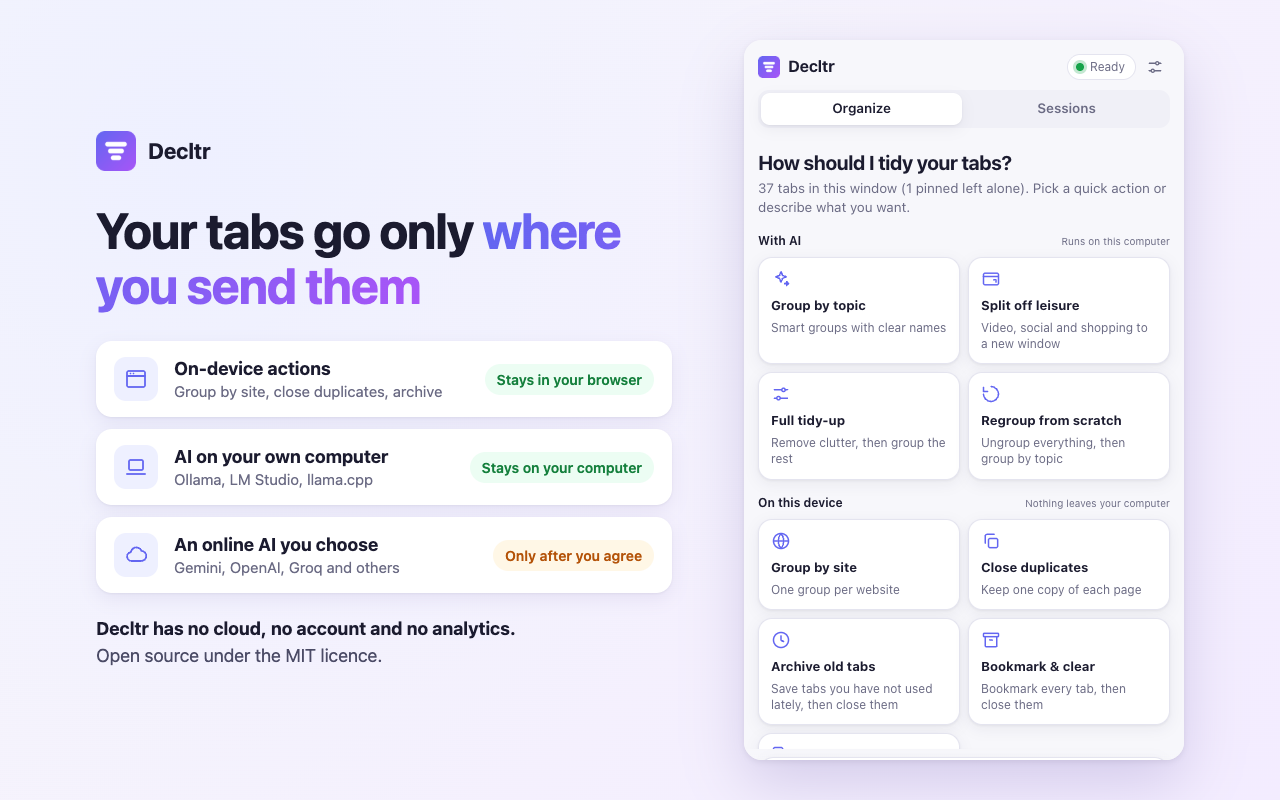
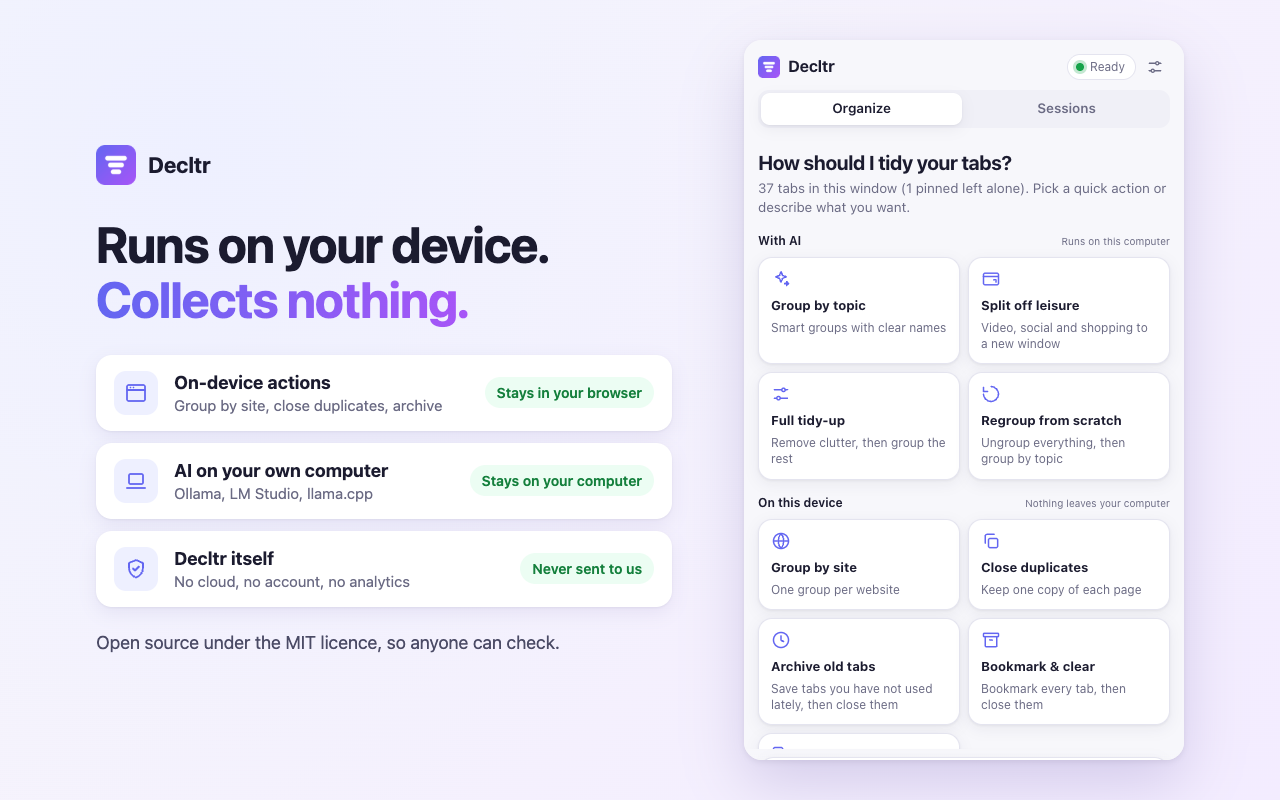
Branding: runs on your device, collects no data
- First screenshot: "Runs on your device. Collects nothing." The online-AI
  row is gone; in its place, Decltr itself: no cloud, no account, no
  analytics, never sent to us.
- Short description, tiles, README, store texts and privacy policy say that
  Decltr runs on your device and collects no data, and that with an online
  AI the user's own key sends tabs straight to their provider, never to us.
- BRAND.md: new taglines and claims, and a note to keep the stores' privacy
  answers as they are, since they cover what the extension sends to any
  provider.

Changed region(s): [[0.0938, 0.4375, 0.5312, 0.75], [0.0625, 0.1562, 0.5, 0.4062], [0.0625, 0.7812, 0.4375, 0.8438]]

diff --git a/dev/store/frame.html b/dev/store/frame.html
@@ -35,9 +35,7 @@
   .lane-text small { font-size: 15px; color: #6b6b84; }
   .pill { flex: none; font-size: 14px; font-weight: 600; padding: 7px 12px; border-radius: 999px; white-space: nowrap; }
   .pill.stay { color: #15803d; background: #ecfdf3; }
-  .pill.ask { color: #b45309; background: #fff7e6; }
   .foot { margin-top: 22px; font-size: 18px; color: #4b4b66; }
-  .foot b { color: #1b1b2f; }
 
   .promo { width: 440px; height: 280px; display: flex; flex-direction: column; justify-content: center; padding: 0 36px;
     background: linear-gradient(135deg, #6366f1, #a855f7); color: #fff; }
@@ -53,7 +51,8 @@
   .large .copy .brand { font-size: 44px; margin-bottom: 28px; }
   .large .copy .brand img { width: 72px; height: 72px; background: #fff; border-radius: 16px; padding: 8px; }
   .large h1 { color: #fff; font-size: 56px; margin-bottom: 18px; }
-  .large p { color: rgb(255 255 255 / 90%); font-size: 24px; }
+  .large p { color: rgb(255 255 255 / 90%); font-size: 24px; max-width: none; }
+  .large.social p { font-size: 22px; }
   .large .chips { margin-top: 26px; }
   .large .chips span { font-size: 17px; padding: 8px 14px; }
   .large .panel { height: 480px; margin-top: 80px; align-self: flex-start; }
@@ -69,7 +68,7 @@
   const ICONS = {
     browser: '<rect x="3" y="4" width="18" height="16" rx="2"/><path d="M3 9h18M6.5 6.5h.01M9.5 6.5h.01"/>',
     laptop: '<rect x="5" y="5" width="14" height="10" rx="1.5"/><path d="M3 19h18"/>',
-    cloud: '<path d="M7.5 18a4.5 4.5 0 01-.6-8.96 5.5 5.5 0 0110.6-1.1A4.5 4.5 0 0117 18z"/>',
+    shield: '<path d="M12 3l7 3v5c0 4.5-3 8.2-7 9.5-4-1.3-7-5-7-9.5V6z"/><path d="M9 11.5l2 2 4-4"/>',
   };
   const lane = (iconName, title, detail, where, kind) =>
     `<div class="lane"><span class="lane-icon">${svg(ICONS[iconName])}</span><div class="lane-text"><b>${title}</b><small>${detail}</small></div><span class="pill ${kind}">${where}</span></div>`;
@@ -79,13 +78,13 @@
 
   const shots = {
     1: {
-      title: 'Your tabs go only <span>where you send them</span>',
+      title: 'Runs on your device. <span>Collects nothing.</span>',
       body: `<div class="lanes">
           ${lane('browser', 'On-device actions', 'Group by site, close duplicates, archive', 'Stays in your browser', 'stay')}
           ${lane('laptop', 'AI on your own computer', 'Ollama, LM Studio, llama.cpp', 'Stays on your computer', 'stay')}
-          ${lane('cloud', 'An online AI you choose', 'Gemini, OpenAI, Groq and others', 'Only after you agree', 'ask')}
+          ${lane('shield', 'Decltr itself', 'No cloud, no account, no analytics', 'Never sent to us', 'stay')}
         </div>
-        <p class="foot"><b>Decltr has no cloud, no account and no analytics.</b><br>Open source under the MIT licence.</p>`,
+        <p class="foot">Open source under the MIT licence, so anyone can check.</p>`,
       panel: 'panel-privacy.png',
       cls: 'privacy',
     },
@@ -94,14 +93,14 @@
     4: { title: 'Your choice <span>of AI</span>', text: 'Ollama or LM Studio on your own computer, Google Gemini with your own key, or any OpenAI-compatible service. No Decltr account, and nothing in between.', panel: 'panel-ai.png' },
     5: { title: 'Built for <span>hundreds of tabs</span>', text: 'Archive tabs you have not used in weeks, open big sessions without loading every tab, and let AI sort huge windows in parts.', panel: 'panel-big.png' },
   };
-  const tagline = 'Open source, with no account and no Decltr cloud. With local AI, nothing leaves your computer.';
+  const tagline = 'Open source. Runs on your device and collects no data.<br>With local AI, nothing leaves your computer.';
 
   if (q.has('large') || q.has('social')) {
     document.body.innerHTML = `<div class="large${q.has('social') ? ' social' : ''}"><div class="copy">${brand}
       <h1>Tidy your tabs<br>in plain English</h1><p>${tagline}</p>${q.has('social') ? chips('Chrome and Edge', 'MIT licence', 'Ollama, Gemini and more') : ''}</div>
       ${panel('panel-plan.png')}</div>`;
   } else if (q.has('promo')) {
-    document.body.innerHTML = `<div class="promo">${brand}<p>Tidy your tabs<br>in plain English.</p>${chips('Open source', 'No account', 'Local AI')}</div>`;
+    document.body.innerHTML = `<div class="promo">${brand}<p>Tidy your tabs<br>in plain English.</p>${chips('Open source', 'Collects no data', 'Local AI')}</div>`;
   } else {
     const s = shots[Number(q.get('n') ?? 1)];
     document.body.innerHTML = `<div class="shot ${s.cls ?? ''}"><div class="copy">${brand}<h1>${s.title}</h1>${s.body ?? `<p>${s.text}</p>`}</div>

diff --git a/store/BRAND.md b/store/BRAND.md
@@ -6,48 +6,51 @@ Every claim here is true of the code in this repository, and the claims table sa
 
 ## Positioning
 
-Decltr tidies browser tabs from plain-English requests. It is independent and open source: there is no Decltr cloud, no account, no analytics and no ads, so none of your data reaches its developer. You choose the AI. A model on your own computer keeps everything on it. An online model with your own key receives tab titles and addresses, and only after you agree. Many features need no AI at all.
+Decltr tidies browser tabs from plain-English requests. It runs on your device and collects no data. It is independent and open source, with no Decltr cloud, no account, no analytics and no ads, so nothing you do in it ever reaches its developer. Every feature can run on your own computer, AI included: with a model on your computer, nothing leaves it. People who prefer an online AI use their own key, and their tabs go straight from the browser to that provider. That is between them and their provider, and Decltr is not in the middle.
 
 It is for people who keep many tabs open (for research, development, study or planning a trip) and care where their data goes, including people who already run local models with Ollama or LM Studio.
 
 ## Messages, in this order
 
 1. **What it does.** Tidy your tabs in plain English.
-2. **Why you can trust it.** Independent and open source: no Decltr cloud, no account, no analytics.
+2. **Why you can trust it.** Runs on your device and collects no data. Open source.
 3. **The privacy promise.** With local AI, nothing leaves your computer.
-4. **Choice.** Use the AI you choose, or none: many actions run on your device.
+4. **Your own AI, if you want one.** Use your own key, and your tabs go straight to your provider, never to us.
 
-Start with 1 so people know what Decltr is, and follow with 2 and 3 straight away. Wherever privacy is the topic (the first screenshot, the privacy part of a listing), lead with 3.
+Start with 1 so people know what Decltr is, and follow with 2 and 3 straight away. The online AI is an option, not part of the privacy story: mention it where the choice of AI is the topic (the fourth screenshot, the AI part of a listing).
 
 ## Taglines
 
 | Where | Line |
 | --- | --- |
 | Main line, everywhere | Tidy your tabs in plain English. |
-| Under the main line | Open source, with no account and no Decltr cloud. |
+| Under the main line | Open source. Runs on your device and collects no data. |
 | Privacy promise | With local AI, nothing leaves your computer. |
-| Privacy headline (first screenshot) | Your tabs go only where you send them. |
-| Choice | Use the AI you choose, or none. |
-| Chips and badges | Open source · No account · Local AI |
+| Privacy headline (first screenshot) | Runs on your device. Collects nothing. |
+| Online AI | Your own key, straight to your provider. |
+| Chips and badges | Open source · Collects no data · Local AI |
 
 ## Words
 
 - **Local AI**, or "a model on your own computer": Ollama with a downloaded model, or LM Studio, llama.cpp and similar at a `localhost` address.
 - **Online AI**, or "an online model": Google Gemini, OpenAI, OpenRouter, Groq and any other service on the internet.
 - **On-device**: the quick actions that use no AI. Use it only for those, as the panel does.
+- **Runs on your device**: about Decltr itself, whose code all runs in your browser. With an online AI the model runs at that provider, so never say the AI runs on your device unless it is local.
+- **Collects no data**: nothing reaches the developer. It does not mean that nothing ever leaves the computer, because with an online AI the browser sends tab details to the user's provider.
 - **Decltr cloud**: what Decltr does not have. Say "no Decltr cloud" rather than "no server", because the optional helper that runs on your own computer is called the Decltr server.
 
 ## Claims and their proof
 
 | Claim | Why it is true | Limits |
 | --- | --- | --- |
-| No Decltr cloud. The developer receives none of your data. | The extension contacts only the AI service you chose and, if you run it, the optional Decltr server on your own computer (127.0.0.1). It has no analytics or error-reporting code. `fetch` appears only in `lib/api.js` and `lib/share.js` (both for the local server) and in the AI backends. | Any new request, image, font or script from the internet breaks this. |
+| Collects no data. Nothing reaches the developer. | The extension contacts only the AI service the user chose and, if they run it, the optional Decltr server on their own computer (127.0.0.1). It has no analytics or error-reporting code. `fetch` appears only in `lib/api.js` and `lib/share.js` (both for the local server) and in the AI backends. | Any new request, image, font or script from the internet breaks this. |
+| Runs on your device. | All the code is in the package and runs in the browser. The optional Decltr server runs on the same computer. | With an online AI, the model runs at that provider. |
 | No account. | There is nothing to sign in to. | |
 | Open source, MIT licence. | `LICENSE`. The store zip is built from `extension/` by `npm run package`. | |
 | No remote code. | Everything runs from the package. Model answers are checked as data and never run. | |
 | On-device actions send nothing. | Group by site, close duplicates, archive old tabs, bookmark and clear, and ungroup all are planned in the browser (`lib/plan.js`, `lib/archive.js`). Saving, opening, exporting and importing sessions stay in the browser too. | Saving a session can ask the AI for a name ("Name new sessions with AI"). That is an AI action. |
-| With local AI, nothing leaves your computer. | For a model at `localhost`, `127.0.0.1` or `[::1]`, there is nothing to agree to (`consentTarget` is empty) and nothing else is contacted. Tab icons come from the browser's own icon store: `node dev/share-lab/favicons.mjs` finds no request about the tabs in Chrome's and Edge's network logs. | Not for Ollama's cloud models (names ending in `cloud`) or a model on another computer on your network. Decltr asks first for those. Opening a tab still loads its site. The browser's own services, such as sync, are outside Decltr. |
-| An online model gets data only after you agree. | Agreement is checked before every request, once per destination (`hasConsent`, tested in `test/backends.test.js`). It receives your request and, for the tabs involved, their titles, addresses without the part after `?` or `#`, group names, and whether a tab is the active one or playing sound. | The optional Decltr server is set up by hand in a terminal with its own key, and forwards to Google Gemini without the panel asking. |
+| Every feature can run on your computer. With local AI, nothing leaves it. | For a model at `localhost`, `127.0.0.1` or `[::1]`, nothing else is contacted. Tab icons come from the browser's own icon store: `node dev/share-lab/favicons.mjs` finds no request about the tabs in Chrome's and Edge's network logs. | Not for Ollama's cloud models (names ending in `cloud`) or a model on another computer on the network. Opening a tab still loads its site. The browser's own services, such as sync, are outside Decltr. |
+| With an online AI, tabs go straight to the user's provider, never to us. | Requests go from the extension to the provider's address with the user's own key; there is no Decltr server in between. The provider receives the request and, for the tabs involved, their titles, addresses without the part after `?` or `#`, group names, and whether a tab is the active one or playing sound. The panel asks once per provider before the first request (`hasConsent`, tested in `test/backends.test.js`). | The optional Decltr server forwards to Google Gemini with the key set up in a terminal. |
 | Your API key stays in this browser. | It is kept in `chrome.storage.local`, never synced, and sent only to the service it belongs to. | It is not encrypted on disk. Never say "encrypted" or "secure vault". |
 | Sharing between browsers stays on this computer. | The optional server keeps shared sessions in a folder only your user account can read. | |
 
@@ -55,44 +58,49 @@ Start with 1 so people know what Decltr is, and follow with 2 and 3 straight awa
 
 | Avoid | Why | Say instead |
 | --- | --- | --- |
-| 100% private, completely private, zero data | Online models receive tab titles and addresses. | With local AI, nothing leaves your computer. |
+| 100% private, completely private, zero data | With an online AI, the provider receives tab titles and addresses. | Collects no data. With local AI, nothing leaves your computer. |
+| The AI runs on your device (in general) | Only true for local AI. | Decltr runs on your device. Every feature can run on your computer. |
 | No server | The optional local helper is called the Decltr server. | No Decltr cloud. |
 | On-device AI | The panel says On-device for actions without AI, and Chrome's built-in AI is not supported. | Local AI, or a model on your own computer. |
-| Nothing ever leaves your browser | Online AI, sharing and export are exceptions. | Name the case: on-device actions, local AI, online AI. |
+| Nothing ever leaves your browser | Online AI, sharing and export are exceptions. | Name the case: on-device actions, local AI, your own online AI. |
 | Encrypted, secure storage | The key is stored unencrypted in the browser profile. | Your key stays in this browser and goes only to its service. |
-| Anonymous | An online service sees what it receives, and the key identifies your account. | Only the tabs involved, and only after you agree. |
+| Anonymous | An online provider sees what it receives, and the key identifies the account. | Never sent to us. |
 | Works with Gemini Nano, or Chrome's built-in AI | Not built. | |
 | Partnered with, endorsed by | Decltr is not affiliated with any AI company. | Works with Ollama, Gemini and others. |
 | Free forever | A promise about the future. | Free. |
+
+## Store privacy forms
+
+"Collects no data" is right for marketing, because nothing reaches the developer. The stores' privacy questions ask something else: what the extension sends anywhere, including to a provider the user picked with their own key. Keep answering them as before. The extension sends tab titles and addresses (web history) to the AI service the user chose, and the API key (authentication information) only to its own service. Keep [PRIVACY.md](../PRIVACY.md) complete for the same reason. Declaring no data there would not match what the extension does with an online AI, and could get the listing rejected or removed.
 
 ## Voice
 
 - Plain, specific and calm. Say what happens to data in concrete words ("the titles and addresses of the tabs involved") instead of adjectives ("secure", "private").
 - Short sentences. No hype words such as "revolutionary", "seamless", "supercharge" or "magic".
-- "Decltr" in product text. When the developer speaks, as in notes in the README, "I".
+- "Decltr" in product text, and "us" where it means the developer ("never sent to us"). When the developer speaks, as in notes in the README, "I".
 - Spelling as in the rest of the docs ("licence").
 
 ## Ready-made descriptions
 
-One line (74 characters):
+One line (80 characters):
 
-> Decltr tidies your browser tabs in plain English. Open source, no account.
+> Decltr tidies your browser tabs in plain English. Open source, collects no data.
 
-Short (33 words):
+Short (30 words):
 
-> Decltr is a free, open-source extension for Chrome and Edge that tidies your tabs from plain-English requests. It has no account and no cloud of its own, and it works with local AI.
+> Decltr is a free, open-source extension for Chrome and Edge that tidies your tabs from plain-English requests. It runs on your device, collects no data, and works with local AI.
 
-Medium (61 words):
+Medium (60 words):
 
-> Decltr is a free, open-source extension for Chrome and Edge. Tell it what you want in plain English, and it groups, closes, bookmarks or saves your tabs. It shows a plan first, and Undo puts things back. Decltr has no account and no cloud of its own. With a model on your own computer, such as Ollama, nothing leaves your computer.
+> Decltr is a free, open-source extension for Chrome and Edge. Tell it what you want in plain English, and it groups, closes, bookmarks or saves your tabs. It shows a plan first, and Undo puts things back. Decltr runs on your device and collects no data. With a model on your own computer, such as Ollama, nothing leaves your computer.
 
-Long (120 words):
+Long (118 words):
 
-> Decltr is a free, open-source (MIT) extension for Chrome and Microsoft Edge that tidies your tabs from plain-English requests, such as "put everything about my Lisbon trip in one group". It shows a plan first, and Undo puts things back. Decltr is an independent hobby project with no cloud, no account, no analytics and no ads, so none of your data reaches its developer. You choose the AI. With a model on your own computer, such as Ollama, LM Studio or llama.cpp, nothing leaves your computer. With Google Gemini or another online service and your own key, that service receives the titles and addresses of the tabs involved, and only after you agree. Many features need no AI at all.
+> Decltr is a free, open-source (MIT) extension for Chrome and Microsoft Edge that tidies your tabs from plain-English requests, such as "put everything about my Lisbon trip in one group". It shows a plan first, and Undo puts things back. Decltr runs on your device and collects no data: it is an independent hobby project with no cloud, no account, no analytics and no ads. Every feature can run on your own computer, AI included. With a model such as Ollama, LM Studio or llama.cpp, nothing leaves your computer. If you prefer an online AI such as Google Gemini, you use your own key, and your tabs go straight from your browser to that provider, never to Decltr.
 
 GitHub repository description (the gear next to **About** on the repository page):
 
-> Tidy your browser tabs in plain English. Open-source Chrome and Edge extension with no account and no Decltr cloud. Works with Ollama, LM Studio, Gemini or any OpenAI-compatible model.
+> Tidy your browser tabs in plain English. Open-source Chrome and Edge extension that runs on your device and collects no data. Works with Ollama, LM Studio, Gemini or any OpenAI-compatible model.
 
 Topics: `chrome-extension`, `edge-extension`, `tab-manager`, `tab-groups`, `ollama`, `local-ai`, `privacy`, `llm`.
 
@@ -110,8 +118,7 @@ Topics: `chrome-extension`, `edge-extension`, `tab-manager`, `tab-groups`, `olla
 | Slate | `#4b4b66` | Body text on light backgrounds |
 | Muted | `#6b6b84` | Secondary text |
 | Mist | `#f7f7fb`, `#f3ecff`, `#eef0ff` | Light backgrounds |
-| Stays green | `#15803d` on `#ecfdf3` | "Stays in your browser", "Stays on your computer" |
-| Ask amber | `#b45309` on `#fff7e6` | "Only after you agree" |
+| Stays green | `#15803d` on `#ecfdf3` | "Stays in your browser", "Stays on your computer", "Never sent to us" |
 
 The gradient runs at 135°, from indigo to violet. On text, use it only for the key phrase of a headline.
 
@@ -123,7 +130,7 @@ The gradient runs at 135°, from indigo to violet. On text, use it only for the 
 
 | File | Size | Used for |
 | --- | --- | --- |
-| `store/screenshot-1.png` | 1280x800 | Privacy: where your tabs go. Always the first screenshot. |
+| `store/screenshot-1.png` | 1280x800 | Privacy: runs on your device, collects nothing. Always the first screenshot. |
 | `store/screenshot-2.png` | 1280x800 | A plan from a plain-English request |
 | `store/screenshot-3.png` | 1280x800 | Sessions |
 | `store/screenshot-4.png` | 1280x800 | Choice of AI (Ollama in settings) |

diff --git a/README.md b/README.md
@@ -1,6 +1,6 @@
 # Decltr
 
-![Decltr: tidy your tabs in plain English. Open source, no account, no Decltr cloud.](store/promo-1400x560.png)
+![Decltr: tidy your tabs in plain English. Open source, runs on your device, collects no data.](store/promo-1400x560.png)
 
 **Tidy your tabs in plain English.** Tell Decltr what you want, and it can **group**, **ungroup**, **close**, **move to a new window**, **bookmark** and **save** the tabs in a window. It shows a plan first, and you can **undo** it afterwards.
 
@@ -8,14 +8,14 @@
 
 ## Private by design
 
-Decltr is an independent, open-source project. It has no cloud, no account, no analytics and no ads, so none of your data reaches its developer. You choose where your tabs go:
+Decltr is an independent, open-source project. It runs on your device and collects no data: there is no Decltr cloud, no account, no analytics and no ads, so nothing you do in it ever reaches its developer. Every feature can run on your own computer, AI included:
 
 | What you use | Where your tabs go |
 | --- | --- |
 | Quick actions marked *On-device*, and saving, opening, exporting or importing sessions | Nowhere. Nothing is sent. |
 | AI actions with a model on your own computer: Ollama, LM Studio, llama.cpp | Nowhere. They stay on your computer. |
-| AI actions with an online model you pick: Google Gemini, OpenAI, OpenRouter, Groq and others | Your request and the titles and addresses of the tabs involved (without anything after `?` or `#`) go to that service, and only after you agree. |
 | Sharing sessions between browsers (advanced) | To the optional Decltr server on this computer, and nowhere else. |
+| AI actions with an online model, if you prefer one: Google Gemini, OpenAI, OpenRouter, Groq and others | Straight from your browser to that provider, with your own key, never to Decltr. It gets your request and the titles and addresses of the tabs involved, without anything after `?` or `#`. |
 
 - AI actions include naming a session with AI, which you can turn off in Settings.
 - Your API key stays in this browser and is sent only to the service it belongs to.

diff --git a/store/EDGE.md b/store/EDGE.md
@@ -27,9 +27,9 @@ The name and short description come from the manifest.
 ```
 Tidy your tabs in plain English. Tell Decltr what you want, and it tidies the current window for you. For example: "Put everything about my Lisbon trip in one group", "Bookmark all recipe tabs into a folder called Recipes and close them", "Move all video tabs to a new window", or "Ungroup everything, then group by project".
 
-Independent and open source. Decltr has no cloud of its own, no account, no analytics and no ads, so none of your data reaches its developer. All of its code is public under the MIT licence: https://github.com/Lalitj03/decltr
+Runs on your device and collects no data. Decltr is an independent project with no cloud, no account, no analytics and no ads, so nothing you do in it ever reaches us. All of its code is public under the MIT licence: https://github.com/Lalitj03/decltr
 
-Your tabs go only where you send them. Use a model that runs on your own computer, such as Ollama, LM Studio or llama.cpp, and nothing leaves your computer. Or use Google Gemini or any OpenAI-compatible service (OpenAI, OpenRouter, Groq, vLLM) with your own key. Then your request and the titles and addresses of the tabs involved go to that service, with everything after "?" or "#" removed, and only after you agree. Your API key stays in this browser.
+Every feature can run on your own computer, AI included. Use a model on your computer, such as Ollama, LM Studio or llama.cpp, and nothing leaves it. If you prefer an online AI such as Google Gemini, OpenAI, OpenRouter or Groq, you use your own key, and the titles and addresses of the tabs involved go straight from your browser to that provider, never to us. Everything after "?" or "#" in an address is removed first, and your API key stays in this browser.
 
 Many features need no AI and never send anything: group by site, close duplicates, archive old tabs, bookmark and clear, and ungroup all. Sessions work without AI too.
 

diff --git a/store/LISTING.md b/store/LISTING.md
@@ -6,8 +6,8 @@ Copy these into the [developer dashboard](https://chrome.google.com/webstore/dev
 
 **Name:** Decltr
 
-**Summary** (from the manifest, 127 characters):
-Tidy tabs in plain English: group, close, bookmark, save. Open source, no account. With local AI, nothing leaves your computer.
+**Summary** (from the manifest, 124 characters):
+Tidy tabs in plain English. Open source, runs on your device, collects no data. With local AI, nothing leaves your computer.
 
 **Category:** Workflow & Planning
 
@@ -25,13 +25,13 @@ Tidy your tabs in plain English. Tell Decltr what you want, and it tidies the cu
 
 Decltr always shows its plan first. You can switch off any step or drop single tabs, then press Apply. Undo puts things back.
 
-INDEPENDENT AND OPEN SOURCE
-• No Decltr cloud, no account, no analytics, no ads. None of your data reaches the developer.
+RUNS ON YOUR DEVICE, COLLECTS NO DATA
+• No Decltr cloud, no account, no analytics, no ads. Nothing you do in Decltr ever reaches us.
 • All of the code is public under the MIT licence: https://github.com/Lalitj03/decltr
 
-YOUR TABS GO ONLY WHERE YOU SEND THEM
+EVERY FEATURE CAN RUN ON YOUR COMPUTER, AI INCLUDED
 • A model on your own computer (Ollama, LM Studio, llama.cpp): nothing leaves your computer
-• Google Gemini or any OpenAI-compatible service (OpenAI, OpenRouter, Groq, vLLM), with your own key: your request and the titles and addresses of the tabs involved go to that service, with everything after "?" or "#" removed, and only after you agree
+• Prefer an online AI (Google Gemini, OpenAI, OpenRouter, Groq)? Use your own key. The titles and addresses of the tabs involved go straight from your browser to that provider, never to us, with everything after "?" or "#" removed
 • Your API key stays in this browser
 • Tab icons come from the browser itself, never from the sites
 

diff --git a/PRIVACY.md b/PRIVACY.md
@@ -2,13 +2,13 @@
 
 Effective 27 November 2026. This policy covers the Decltr browser extension (for Chrome and Microsoft Edge) and the optional Decltr server.
 
-Decltr is an independent, open-source hobby project. It has no cloud of its own, no accounts, no analytics and no advertising. The developer receives no data from you. (The optional Decltr server is a program you run yourself, on your own computer.)
+Decltr is an independent, open-source hobby project. It runs on your device and the developer collects no data: there is no Decltr cloud, no account, no analytics and no advertising, and nothing you do in Decltr reaches the developer. (The optional Decltr server is a program you run yourself, on your own computer.)
 
 In short:
 
 - Quick actions marked *On-device* send nothing, and neither do saving, opening, exporting and importing sessions.
 - AI actions, including naming a session with AI, use the model you chose. With a model that runs on your own computer (for example Ollama or LM Studio), nothing leaves your computer.
-- With an online model, your request and the titles and addresses of the tabs involved go to that service, and only after you agree.
+- With an online model, you use your own key, and your request and the titles and addresses of the tabs involved go straight from your browser to that service, under its terms. They never reach the developer.
 
 ## What Decltr handles, and where it goes
 

diff --git a/CHANGELOG.md b/CHANGELOG.md
@@ -4,7 +4,7 @@
 
 - Tab icons now come from the browser's own icon store. Before, the panel loaded each tab's icon from its site, so showing a session or a plan contacted those sites. Checked in Chrome and Edge: the panel makes no request about the tabs it shows. New permission `favicon`, with no new install warning (the `tabs` warning already covers it).
 - Ollama's cloud models (names ending in `cloud`, such as `gemma4:cloud`) run on ollama.com, so Decltr now asks before using one, like any online service, and says "Sends tab titles to ollama.com". Models on your computer still never ask.
-- New store text, short description and graphics that lead with what Decltr is: independent, open source, no account, no Decltr cloud. Brand guide in `store/BRAND.md`.
+- New store text, short description and graphics that lead with what Decltr is: independent and open source, it runs on your device and collects no data. Brand guide in `store/BRAND.md`.
 
 ## 0.8.0 (unreleased): share sessions between browsers (server 0.4.0)
 
